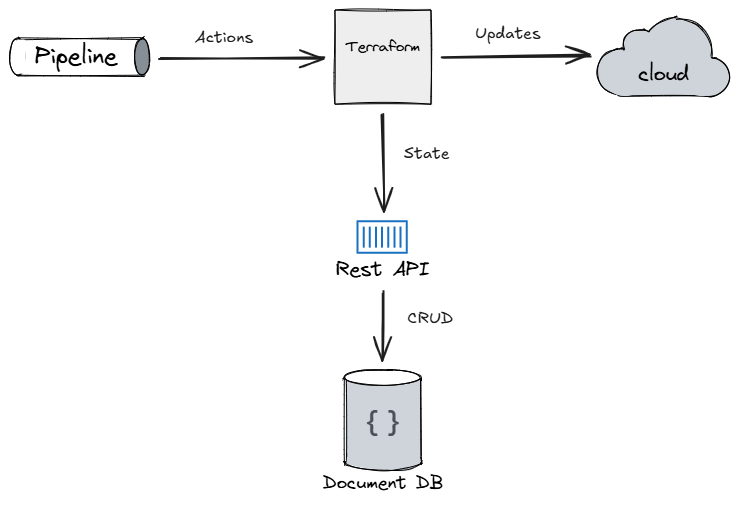
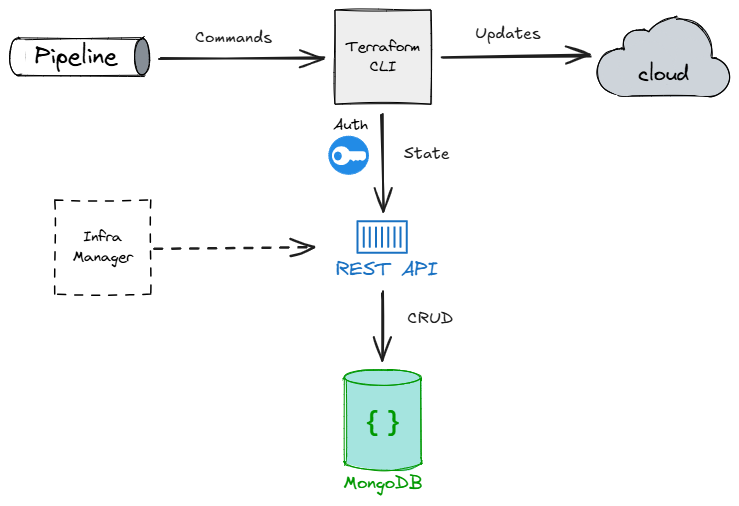
Improves docs (#13)

diff --git a/docs/quickstart.md b/docs/quickstart.md
@@ -2,7 +2,7 @@
 
 ## Demo
 
-This is the exhaustive list of steps to use Terraform Backend MongoDB.
+This is a complete walkthrough to see Terraform Backend MongoDB in action.
 
 <!-- 
 TODO: add other options
@@ -20,13 +20,16 @@ TODO: add other options
         https://github.com/devpro/helm-charts/releases/download/terraform-backend-mongodb-0.1.0/terraform-backend-mongodb-0.1.0.tgz \
         --create-namespace --namespace tfbackend
     ```
+
+[OpenTofu](https://opentofu.org/docs/intro/install/)
 -->
 
-1. Make sure requirements are met:
+1. Make sure the following tools are available from the commande line:
 
-    - [Terraform](https://developer.hashicorp.com/terraform/install), or [OpenTofu](https://opentofu.org/docs/intro/install/), must be available from the command line.
+    - [Docker](https://docs.docker.com/engine/install/)
+    - [Terraform](https://developer.hashicorp.com/terraform/install)
 
-2. Run the application and the database in containers
+2. Run the application and the database in containers:
 
     === "Docker"
 
@@ -35,9 +38,7 @@ TODO: add other options
         docker compose up
         ```
 
-    
-
-3. Create a user to authenticate calls
+3. Create a user to authenticate calls:
 
     === "Docker"
 
@@ -46,7 +47,7 @@ TODO: add other options
         MONGODB_CONTAINERNAME=tfbackmdb-mongodb-1 MONGODB_CONTAINERNETWORK=tfbackmdb_default tfbeadm create-user admin admin123 dummy
         ```
 
-4. Update Terraform backend (copy of an already configured simple sample)
+4. Write Terraform files from a pre-configured sample:
 
     === "Docker"
 
@@ -54,19 +55,19 @@ TODO: add other options
         curl -O https://raw.githubusercontent.com/devpro/terraform-backend-mongodb/refs/heads/main/samples/local-files/main.tf
         ```
 
-5. Initiatize Terraform
+5. Prepare the working directory for use with Terraform:
 
     ```bash
     terraform init
     ```
 
-6. Apply changes
+6. Performs the operations indicated in Terraform project files:
 
     ```bash
     terraform apply
     ```
 
-7. Query the state database
+7. Query the state database to see the Terraform state information:
 
     === "Docker"
 
@@ -75,7 +76,7 @@ TODO: add other options
           bash -c "mongosh \"mongodb://mongodb:27017/terraform_backend_dev\" --eval 'db.tf_state.find().projection({tenant: 1, name: 1, createdAt: 1, \"value.version\": 1, \"value.resources.type\": 1, \"value.resources.name\": 1})'"
         ```
 
-8. Destroy the resources
+8. Destroy the resources that were created with Terraform:
 
     ```bash
     terraform destroy

diff --git a/docs/index.md b/docs/index.md
@@ -1,15 +1,29 @@
 # Welcome
 
-This project provides an HTTP backend for [Terraform](https://www.terraform.io), and [OpenTofu](https://opentofu.org/), to save the state data in a [MongoDB](https://www.mongodb.com/) database.
+A simple, standards-compliant HTTP backend for [Terraform](https://www.terraform.io) (and [Terraform](https://www.terraform.io)) that stores state files in MongoDB.
 
-As the state is a JSON content, it just makes sense to use the best-in-class technology to store it!
+!!! tip
+
+	Instead of relying on vendor-specific storage or local files, this backend lets you use MongoDB - a mature, horizontally scalable document database - as the storage layer for your Terraform state.
+	
+	Since Terraform state is already JSON, MongoDB is a natural and efficient fit.
 
 ## Key features
 
-1. Highly available, performant, no vendor lock-in, storage system
-2. Secured access to sensitive information, with tenant isolation
-3. Integrate real data in your infrastructure management system
+- **Full Terraform HTTP backend compliance** - works out-of-the-box with terraform `{ backend "http" }` (and OpenTofu)
+- **Leverages MongoDB strengths** - high availability, replication, sharding, and strong performance for JSON documents
+- **No vendor lock-in** - you control your MongoDB cluster (self-hosted, Atlas, Cosmos DB, etc.)
+- **Fine-grained access control** - per-workspace (tenant) isolation
+- **State file encryption at rest** - optional server-side encryption using MongoDB's native encrypted storage engine or client-side encryption
+- **Locking support implemented** - Terraform checks and prevents concurrent modifications
+- **Minimal dependencies** - simple open-source code, shipped in an image using SUSE BCI for security and performance
+- **Audit trail** - all state operations logged with workspace, user/agent, and timestamp
 
-## High-level view
+## When to use this backend
 
-![High level schema](assets/images/high-level.png)
+- You already run MongoDB in your organization
+- You want a highly available, globally distributed state store without adding another vendor
+- You need strong RBAC and encryption controls that MongoDB already provides
+- You prefer running one binary in Kubernetes or as a Docker container instead of managing S3
+- You want to use the valuable Terraform state information in your infrastructure management system
+- You want to simplify the infrastructure automation with a single, highly available source of truth

diff --git a/docs/setup.md b/docs/setup.md
@@ -4,14 +4,14 @@
 
 ### Database server
 
-Make sure you have access to a MongoDB database (with a connection string containing a user that have admin permissions).
+The application needs a MongoDB database that can be hosted in a:
 
-The MongoDB server can run:
+- MongoDB Cluster managed by Atlas (easiest solution, free tier available)
+- MongoDB Replica Set running from release binaries on one or multiple servers
+- MongoDB Replica Set running in containers from MongoDB container image (available on DockerHub)
+- Kubernetes cluster using MongoDB Community or Enterprise Kubernetes Operator
 
-- In a MongoDB Cluster managed by Atlas (easiest solution, free tier available)
-- In one or multiple servers from release binaries
-- In one or multiple containes from MongoDB container image (available on DockerHub)
-- In a Kubernetes cluster using MongoDB Community or Enterprise Kubernetes operator
+Once the database is available, grab the connection string for a user with admin permissions.
 
 !!! tip
 
@@ -21,14 +21,24 @@ The MongoDB server can run:
 
 Add indexes for optimal performances:
 
-```bash
-curl -O https://raw.githubusercontent.com/devpro/terraform-backend-mongodb/refs/heads/main/scripts/tfbeadm
-MONGODB_URI=mongodb://<myserver>:27017/<mydb> tfbeadm create-indexes
-```
+=== "Commands"
 
-!!! warning
+    ```js
+    db.tf_state.createIndex({"tenant": 1, "name": 1})
+    db.tf_state_lock.createIndex({"tenant": 1, "name": 1}, {unique: true})
+    db.user.createIndex({"username": 1}, {unique: true})
+    ```
 
-    `mongosh` or `Docker` must be available on the machine running the commands
+=== "Script"
+
+    ```bash
+    curl -O https://raw.githubusercontent.com/devpro/terraform-backend-mongodb/refs/heads/main/scripts/tfbeadm
+    MONGODB_URI=mongodb://<myserver>:27017/<mydb> tfbeadm create-indexes
+    ```
+
+    !!! warning
+
+        `mongosh` or `Docker` must be available on the machine running the commands
 
 ## Installation
 

diff --git a/CONTRIBUTING.md b/CONTRIBUTING.md
@@ -112,6 +112,12 @@ docker run --rm -it -p 8000:8000 -v ${PWD}:/docs squidfunk/mkdocs-material
 
 Open [localhost:8000](http://localhost:8000/).
 
+You can also use hot reload to view changes without having to restart the container:
+
+```bash
+docker run --rm -it -p 8000:8000 -v "${PWD}:/docs" squidfunk/mkdocs-material serve --dev-addr=0.0.0.0:8000 --livereload --dirtyreload --watch docs --watch mkdocs.yml
+```
+
 ## Understand the application lifecycle automation
 
 GitHub Actions are triggered to automate the integration and delivery of the application:

diff --git a/docs/usage.md b/docs/usage.md
@@ -3,8 +3,9 @@
 ## Tenant authentication
 
 API calls are secured through tenant isolation and user authentication, which are stored in the MongoDB database.
+User password is encrypted.
 
-Users must be added to the database with this script:
+`tfbeadm` script is the easiest way to create the users correctly:
 
 ```bash
 curl -O https://raw.githubusercontent.com/devpro/terraform-backend-mongodb/refs/heads/main/scripts/tfbeadm

diff --git a/docs/architecture.md b/docs/architecture.md
@@ -1,0 +1,8 @@
+# Architecture
+
+**Terraform Backend MongoDB** makes the link between Terraform and MongoDB, two industry standards.
+It's an integration, not a new application.
+
+## High-level view
+
+![High level schema](assets/images/high-level.png)
